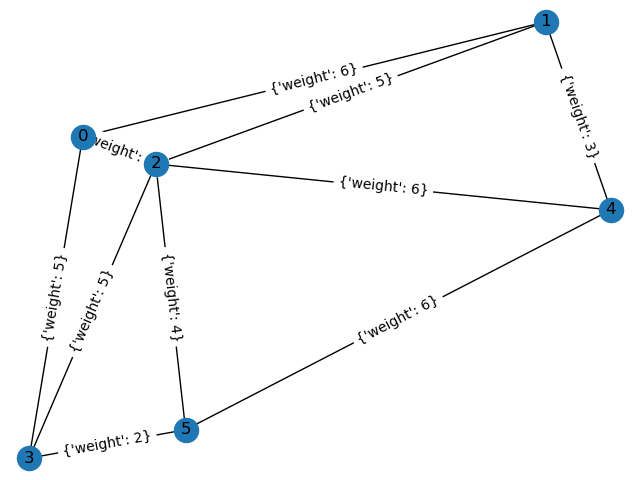
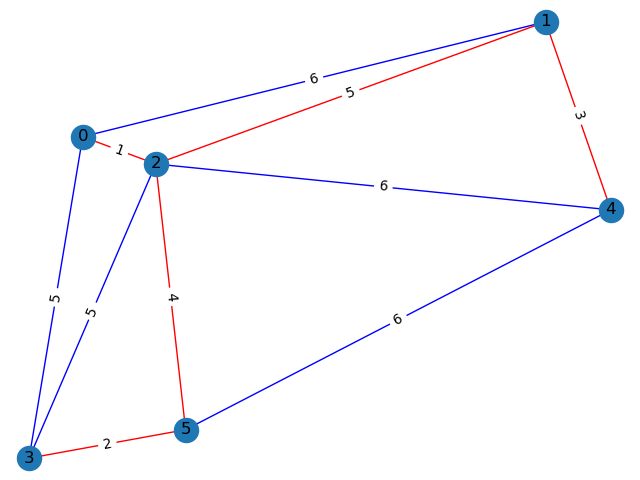
modify djset and draw edges

diff --git a/mst/kruskal.py b/mst/kruskal.py
@@ -5,8 +5,7 @@ import matplotlib.pyplot as plt
 from collections import defaultdict
 
 '''
-kruskal算法：并查集实现，结果已经输出，后面会展现动图，给并查集添加rank降低时间复杂度
-，我要去看论文了，后面再写。
+我要去看论文了，byebye!!
 '''
 class kruskal:
     def __init__(self, graph) -> None:
@@ -14,15 +13,25 @@ class kruskal:
             
     def mst(self):
         n = len(self.graph)
-        tree = []
+        tree = defaultdict(int)
         parent = [_ for _ in range(n)]
+        rank = [0] * n
         
         def find_parent(v):
             while parent[v] != v:
                 v = parent[v]
             return v 
         def union(u, v):
-            parent[find_parent(v)] = find_parent(u)     
+            u_root = find_parent(u)
+            v_root = find_parent(v)
+
+            if rank[u_root] > rank[v_root]:
+                parent[v_root] = u_root
+                rank[v] += 1
+            else:
+                parent[u_root] = v_root
+                rank[u] += 1
+
         
         edge_dict = defaultdict(int)
         for (u, v, w) in self.graph:
@@ -34,7 +43,7 @@ class kruskal:
                 continue
             else:
                 union(u, v)
-                tree.append((u, v, w))
+                tree[(u, v)] = w
         return tree        
 
 
@@ -43,12 +52,23 @@ def main():
     
     tree = kruskal(graph).mst()
     print(tree)
+    n = len(graph)
+    edge_color = ['b'] * n
+    edge_set = set([_ for _ in tree.keys()])
+    print(edge_set)
+        
     G = nx.Graph()
     G.add_weighted_edges_from(graph)
+    edge_all = list(G.edges)
+    for i in range(n):
+        if edge_all[i] in edge_set:
+            edge_color[i] = 'r'
     pos = nx.kamada_kawai_layout(G)
-    nx.draw(G, pos, with_labels=True)
-    nx.draw_networkx_edge_labels(G, pos)
-    plt.savefig("kruskal.png")     
+    nx.draw(G, pos, with_labels=True, edge_color=tuple(edge_color))
+    edge_labels = nx.get_edge_attributes(G, 'weight')
+    nx.draw_networkx_edge_labels(G, pos, edge_labels=edge_labels)
+    plt.savefig("mst/kruskal.png", format="PNG")
+    plt.show()
 
 if __name__ == '__main__':
     main()
